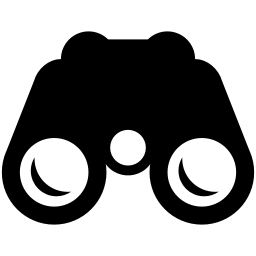
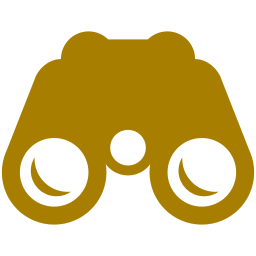
css

diff --git a/Compassion/www/css/style.css b/Compassion/www/css/style.css
@@ -1,14 +1,18 @@
 /* overall */
 
 ion-nav-bar .title {
-	color: orange !important;
+	color: #a87e01 !important; 
 	text-transform: capitalize;
+	font-family: "Iowan Old Style", Times, serif !important;
+}
+
+* {
+	
 	font-family: "Iowan Old Style", Times, serif !important;
 }
 
 ion-content * {
 	color: white;
-	font-family: "Iowan Old Style", Times, serif !important;
 }
 
 .back-button * {
@@ -202,6 +206,9 @@ ion-side-menu ion-content {
 
 /* terms page */ 
 
+.terms-page * {
+	color: #a87e01 !important;
+}
 .terms-page {
 	background-color: black;
 }
@@ -225,8 +232,8 @@ ion-side-menu ion-content {
 	background-color: black;
 }
 
-.artifact-search-page p {
-	color: white;
+.artifact-search-page h3 {
+	color: #a87e01;
 }
 
 .artifact-search-page .pronounce {

diff --git a/Compassion/www/templates/artifact/intermediate.html b/Compassion/www/templates/artifact/intermediate.html
@@ -13,12 +13,13 @@
     	</div>
     </div>
 
+    <div class="info">insdigdsg</div>
      <div class="caption-tabs">
       <a class="tab-item" ng-class="{active:tab===1}" ng-click="tab = 1">
-        Text Caption
+        Text
       </a>
       <a class="tab-item" ng-class="{active:tab===2}" ng-click="tab = 2">
-        Audio Caption
+        Audio
       </a>
 
     </div>
